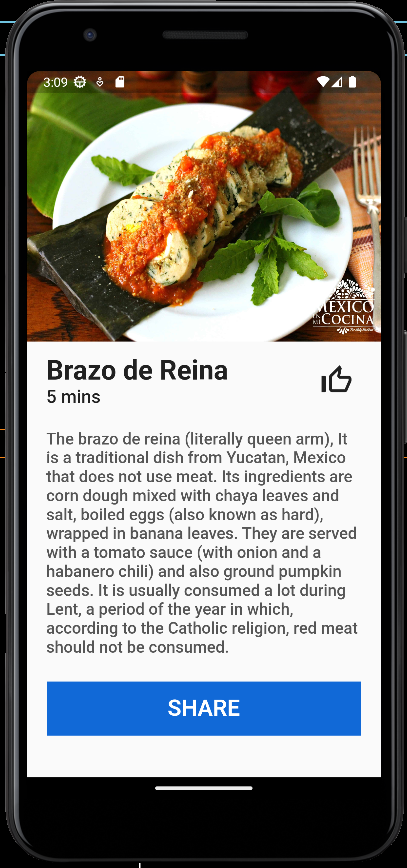
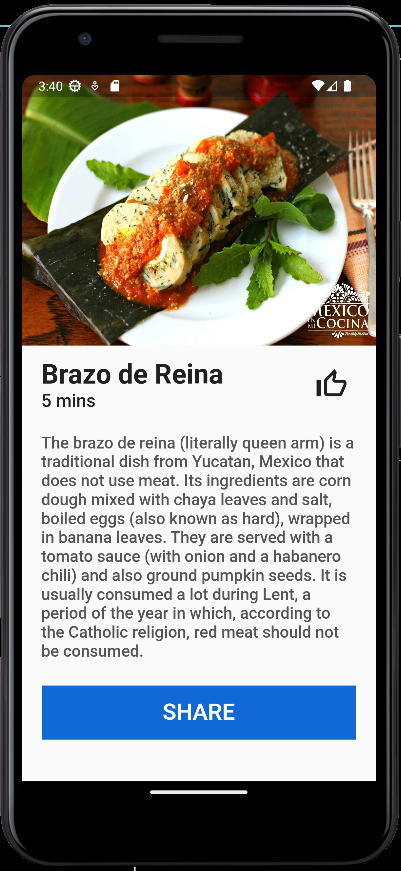
little correction to practice 15

diff --git a/lib/screens/practice_16.dart b/lib/screens/practice_16.dart
@@ -1,0 +1,52 @@
+import 'package:flutter/material.dart';
+
+class Practice13 extends StatelessWidget {
+  const Practice13({super.key});
+
+  @override 
+  Widget build(BuildContext context){
+    return Scaffold(
+      body: Center(
+        child: Container(
+          width: 320,
+          height: 400,
+          color: const Color(0xfff4f4f4),
+          child: Column(
+            mainAxisAlignment: MainAxisAlignment.center,
+            children: [
+              Container( 
+                decoration: const BoxDecoration(
+                  borderRadius: BorderRadius.all(Radius.circular(50)),
+                  color: Color(0xff222e3e),
+                  ),
+                padding: const EdgeInsets.all(25),
+                child: const Icon(size: 55,color: Colors.white,Icons.tablet_mac_rounded)
+              ),
+
+              const SizedBox(height: 20,),
+
+              const Text("APPMAKING.COM",style: TextStyle(fontSize: 30,fontWeight: FontWeight.w500),),
+              const SizedBox(height: 25,),
+              const Text("Follow us",style: TextStyle(fontSize: 20,fontWeight: FontWeight.w500),),
+
+              const SizedBox(height: 25,),
+
+              Row(
+                mainAxisSize: MainAxisSize.min,
+                children: [
+                  Image.asset("images/facebook.png", height: 50, width: 50, fit: BoxFit.cover),
+                  const SizedBox(width: 35,),
+                  Image.asset("images/twitter.png", height: 50, width: 50, fit: BoxFit.cover),
+                  const SizedBox(width: 35,),
+                  Image.asset("images/instagram.png", height: 50, width: 50, fit: BoxFit.cover),
+                ],
+              )
+
+              
+            ],
+          ),
+        )
+      ),
+    );
+  }
+}

diff --git a/lib/screens/practice_15.dart b/lib/screens/practice_15.dart
@@ -45,7 +45,7 @@ class Practice15 extends StatelessWidget {
                   height: 25,
                 ),
                 const Text(
-                  "The brazo de reina (literally queen arm), It is a traditional dish from Yucatan, Mexico that does not use meat. Its ingredients are corn dough mixed with chaya leaves and salt, boiled eggs (also known as hard), wrapped in banana leaves. They are served with a tomato sauce (with onion and a habanero chili) and also ground pumpkin seeds. It is usually consumed a lot during Lent, a period of the year in which, according to the Catholic religion, red meat should not be consumed.",
+                  "The brazo de reina (literally queen arm) is a traditional dish from Yucatan, Mexico that does not use meat. Its ingredients are corn dough mixed with chaya leaves and salt, boiled eggs (also known as hard), wrapped in banana leaves. They are served with a tomato sauce (with onion and a habanero chili) and also ground pumpkin seeds. It is usually consumed a lot during Lent, a period of the year in which, according to the Catholic religion, red meat should not be consumed.",
                   textAlign: TextAlign.left,
                   style: TextStyle(fontSize: 18, fontWeight: FontWeight.w500, color: Color(0xff565656)),
                 ),
